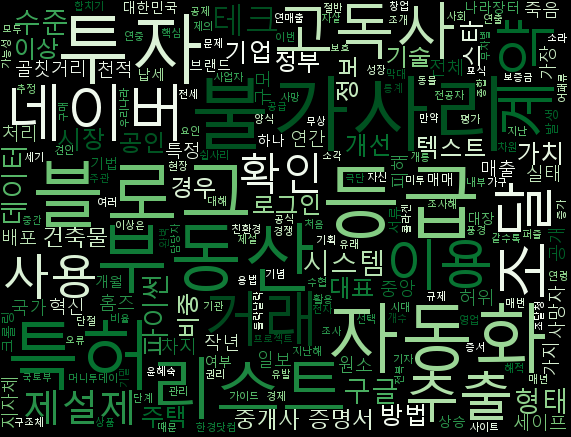
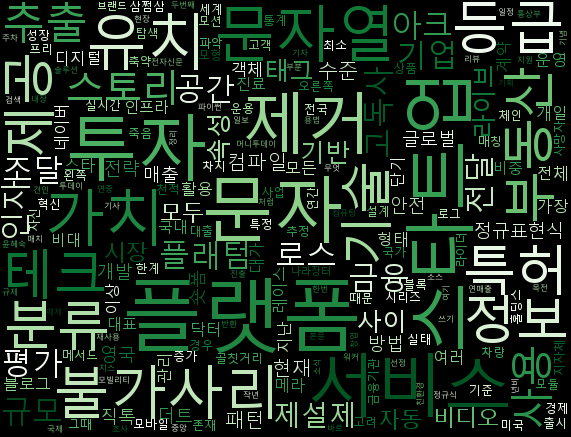
v221214.02

diff --git a/index.html b/index.html
@@ -128,11 +128,18 @@ id -> .firstname
             </tr>
           </table>
         </div>
+        <div id="bottom">
+          <img src="wordcloud2.png" style="width:100%">
+          <p style="text-align: center;">
+            <span style="color: yellow; font-size: 20px">WordCloud1</span><br>
+            "LINER의 하이라이트 항목을 크롤링하여 <strong style="color:lightseagreen">누적 관심 분야</strong>를 보여줍니다!"
+          </p>
+        </div>
         <div>
           <img src="wordcloud.png" style="width:100%">
           <p style="text-align: center;">
-            <span style="color: yellow; font-size: 20px">WordCloud</span><br>
-            "LINER의 하이라이트 항목을 크롤링하여 최근 관심사를 보여줍니다!"
+            <span style="color: yellow; font-size: 20px">WordCloud2</span><br>
+            "LINER의 하이라이트 항목을 크롤링하여 <strong style="color:lightseagreen">최근 관심 키워드</strong>를 보여줍니다!"
           </p>
         </div>
       </div>

diff --git a/cloudmaker2.py b/cloudmaker2.py
@@ -1,0 +1,63 @@
+from selenium import webdriver
+from selenium.webdriver.common.by import By
+from selenium.webdriver.chrome.service import Service as ChromeService
+import time
+from bs4 import BeautifulSoup
+from collections import Counter
+
+options = webdriver.ChromeOptions()
+options.add_experimental_option("excludeSwitches", ["enable-automation"])
+options.add_experimental_option("useAutomationExtension", False)
+CHROMEDRIVER_PATH = './chromedriver.exe'
+service = ChromeService(executable_path=CHROMEDRIVER_PATH)
+
+driver = webdriver.Chrome(service=service, options=options)
+
+delay=0.1
+
+url = 'https://getliner.com/feeds/user/7203684?shareOption=profile'
+
+driver.get(url)
+
+time.sleep(1)
+
+html = driver.page_source
+soup = BeautifulSoup(html, 'html.parser')
+sec = soup.select_one('section.css-14vqkrf')
+tags = sec.select('ul.css-oediup > ul > li')
+
+import re
+
+collections = {}
+for tag in tags:
+    attr = tag['data-folder-data'] # type = str
+    # attr = attr.rstrip # 우공백 지우기 -> 하면 다 지워짐
+    # type(attr) = str
+    # 결과 예시
+    # {"id":7382319,"name":"헬스케어 스타트업","emoji":null,"order":13,"status":"normal","description":"","openState":"public","hashKey":"NzM4MjMxOQ==","savedPageCount":1,"viewCount":0}
+    # => 정규표현식으로 해결해보자!
+    name = re.findall('"name":"(.*?)",', attr)[0]
+    page = re.findall('"savedPageCount":(.*?),', attr)[0]
+    page = int(page)
+    collections[name] = page
+    
+time.sleep(1)
+
+from wordcloud import WordCloud
+import matplotlib.pyplot as plt
+from PIL import Image
+import numpy as np
+
+img = Image.open('son.png') # 이미지 파일 읽어오기
+mask = np.array(img) # 픽셀 값 배열 형태 변환
+
+word_counts = collections
+  
+wordcloud = WordCloud(font_path='malgun',  background_color="black", colormap='Reds', width = 700, height = 700, random_state = 43, max_font_size=80, mask=mask).generate_from_frequencies(word_counts)
+
+plt.figure(figsize = (6,6))
+plt.imshow(wordcloud, interpolation="bilinear")
+plt.axis("off")
+plt.show()
+
+wordcloud.to_file('wordcloud2.png')
